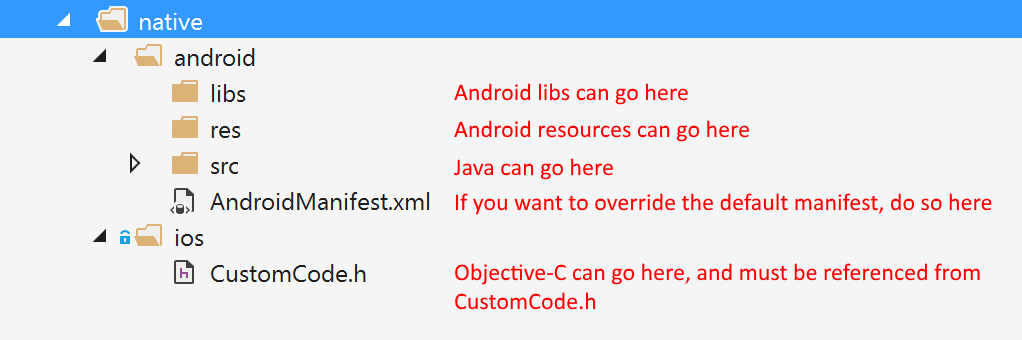
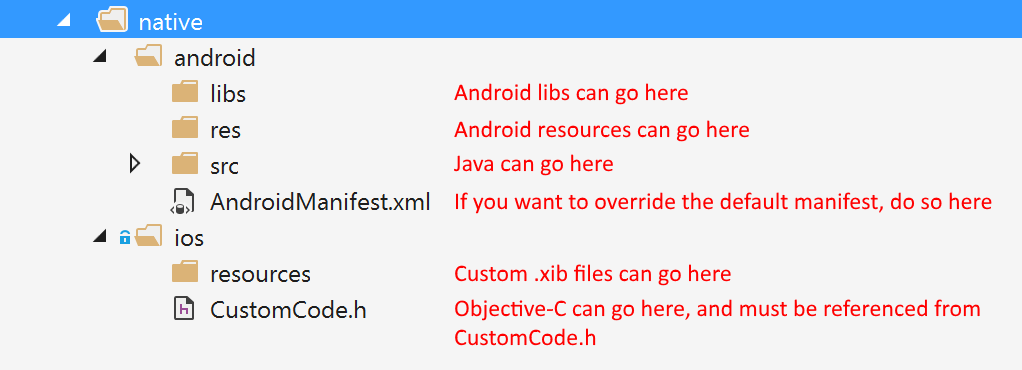
Update invoking native code content + image, enable sorting of docs

Changed region(s): [[0.0, 0.0, 1.0, 0.8824], [0.4247, 0.7059, 0.9706, 0.9412], [0.4247, 0.2059, 0.6977, 0.2941]]

diff --git a/_layouts/doc.html b/_layouts/doc.html
@@ -37,16 +37,6 @@
                     {% endif %}
                 {% endif %}
             {% endfor %}
-                    <!-- Make sure this is last: -->
-                    <p><b><a href="/docs/ref/">UI Framework Reference</a></b></p>
-                    <p style="margin-left:12px"><a href="/docs/ref/#one">Layout Panels</a></p>
-                    <p style="margin-left:12px"><a href="/docs/ref/#two">Controls</a></p>
-                    <p style="margin-left:12px"><a href="/docs/ref/#three">Ace</a></p>
-                    <p style="margin-left:12px"><a href="/docs/ref/#four">Platform Helpers</a></p>
-                    <p style="margin-left:12px"><a href="/docs/ref/#five">NativeObject</a></p>
-
-                    <p><b><a href="/docs/examples/">Examples</a></b></p>
-                    <p><b><a href="/docs/errors/">Troubleshooting</a></b></p>
                 </ul>
             </td>
             <td style="vertical-align:top" width="100%">

diff --git a/_includes/header-main.html b/_includes/header-main.html
@@ -28,10 +28,6 @@
                             <li><a href="{{ my_page.url | prepend: site.baseurl }}">{{ my_page.title }}</a></li>
                         {% endif %}
                     {% endfor %}
-                            <!-- Make sure this is last: -->
-                            <li><a href="/docs/ref/">UI Framework Reference</a></li>
-                            <li><a href="/docs/examples/">Examples</a></li>
-                            <li><a href="/docs/errors/">Troubleshooting</a></li>
                         </ul>
                     </li>
                     <li class="nav-item nav-item-cta last"><a class="btn btn-cta btn-cta-primary" style="color:white;background-color:#682079" href="https://github.com/adnathan/ace"><i class="fa fa-github"></i>View on Github</a></li>

diff --git a/_includes/header-home.html b/_includes/header-home.html
@@ -30,10 +30,6 @@
                             <li><a href="{{ my_page.url | prepend: site.baseurl }}">{{ my_page.title }}</a></li>
                         {% endif %}
                     {% endfor %}
-                            <!-- Make sure this is last: -->
-                            <li><a href="/docs/ref/">UI Framework Reference</a></li>
-                            <li><a href="/docs/examples/">Examples</a></li>
-                            <li><a href="/docs/errors/">Troubleshooting</a></li>
                         </ul>
                     </li>
                     <li class="nav-item nav-item-cta last"><a class="btn btn-cta btn-cta-secondary" href="https://github.com/adnathan/ace"><i class="fa fa-github"></i>View on Github</a></li>

diff --git a/docs/ia_invoking-native-code.md b/docs/ia_invoking-native-code.md
@@ -17,7 +17,7 @@ or your own custom native code. For the latter two cases, you need to include th
 <a name="one"/>
 
 ## Include Native Code in Your Project
-Cordova apps with Ace installed can include any native code and resources in the project's <b>native</b> folder. Code (and resources in the case of Android) 
+Cordova apps with Ace installed can include any native code and resources in the project's <b>native</b> folder. Code and resources 
 placed here gets compiled into your project:
 
 <img width="50%" src="/assets/images/docs/native-folder.png"/>

diff --git a/docs/za_ui-framework-reference.md b/docs/za_ui-framework-reference.md
@@ -1,8 +1,13 @@
 ---
 layout: doc
 title: UI Framework Reference
-category: hidden
+category: docs
 permalink: /docs/ref/
+section1: Layout Panels
+section2: Controls
+section3: Ace
+section4: Platform Helpers
+section5: NativeObject
 ---
 
 <a name="one"/>

diff --git a/docs/zc_errors.md b/docs/zc_errors.md
@@ -1,7 +1,7 @@
 ---
 layout: doc
 title: Troubleshooting Errors
-category: hidden
+category: docs
 permalink: /docs/errors/
 ---
 

diff --git a/docs/zb_examples.md b/docs/zb_examples.md
@@ -1,7 +1,7 @@
 ---
 layout: doc
 title: Examples
-category: hidden
+category: docs
 permalink: /docs/examples/
 ---
 
